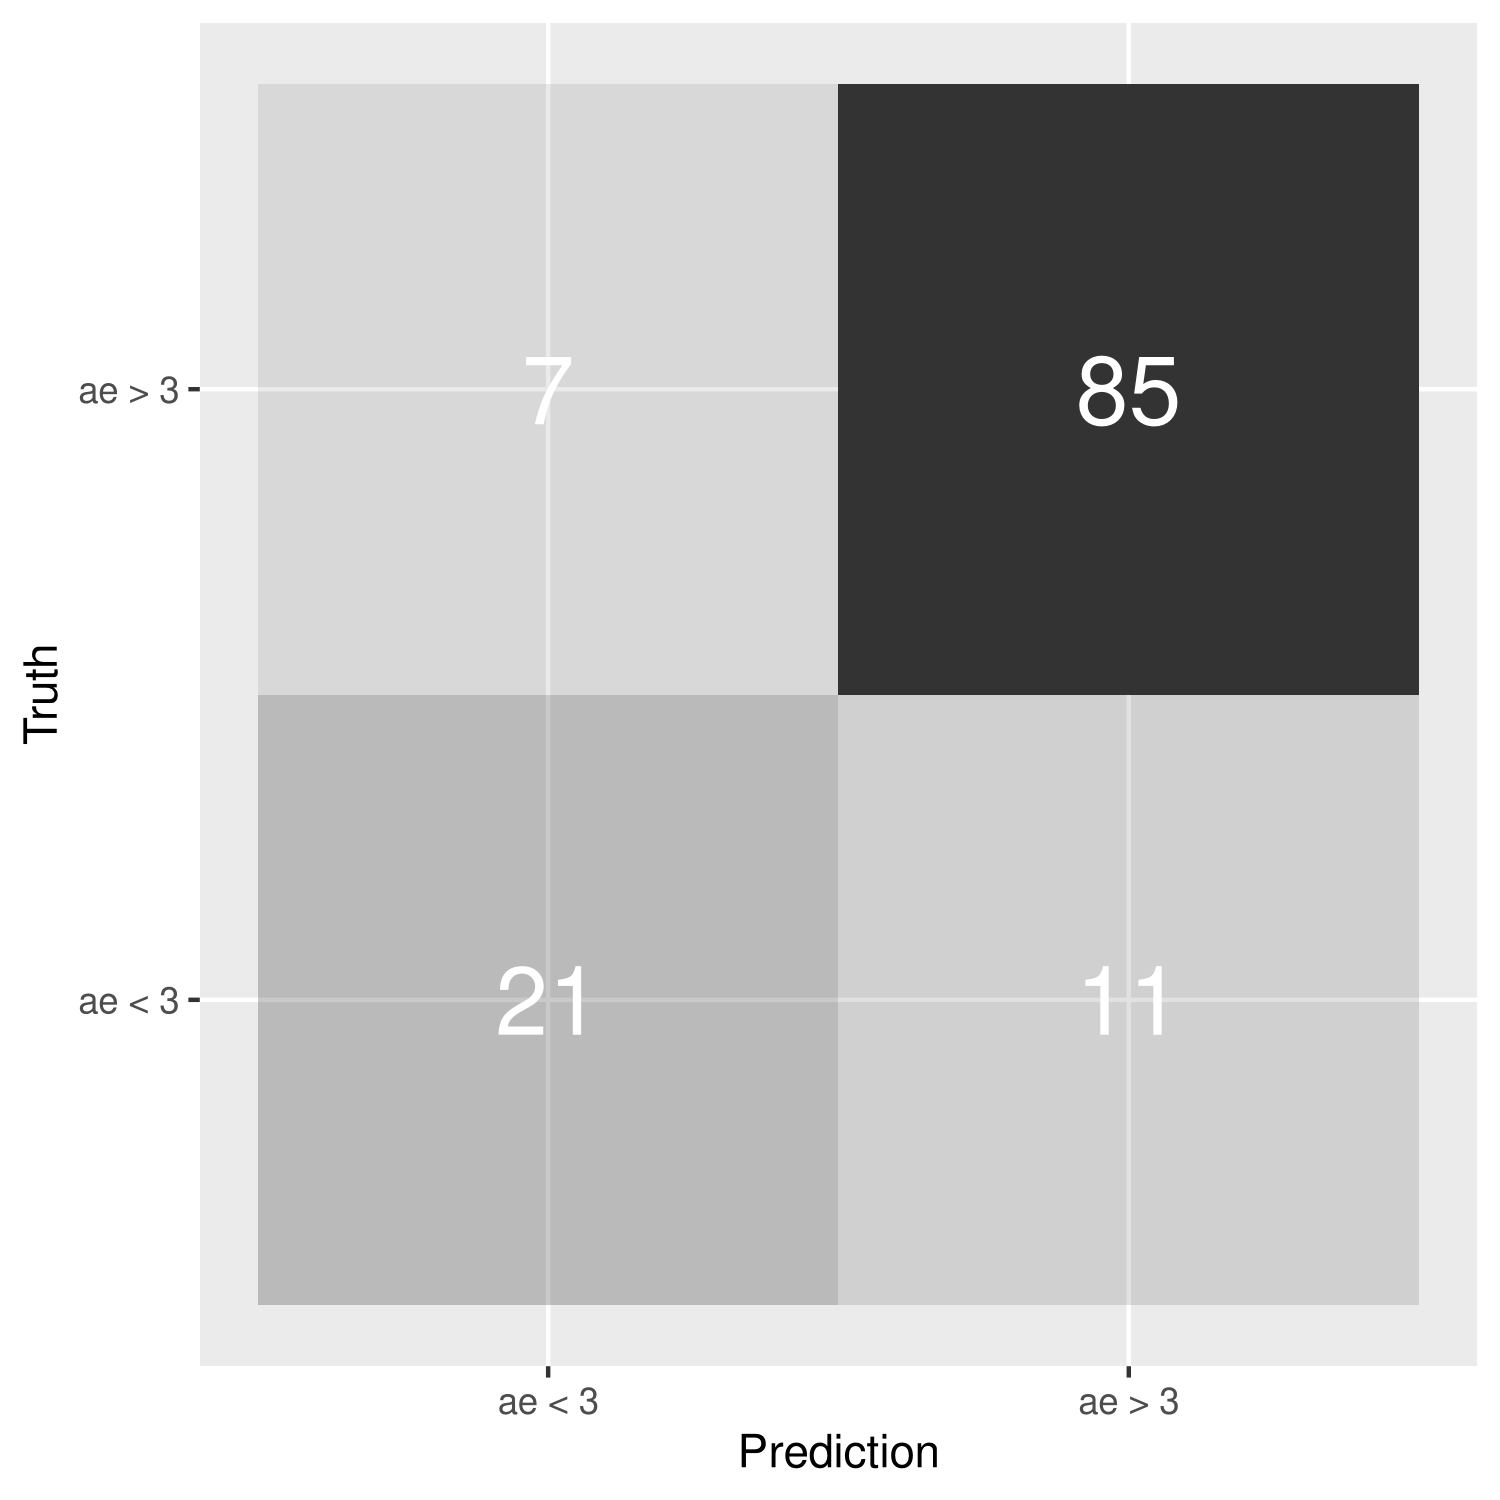
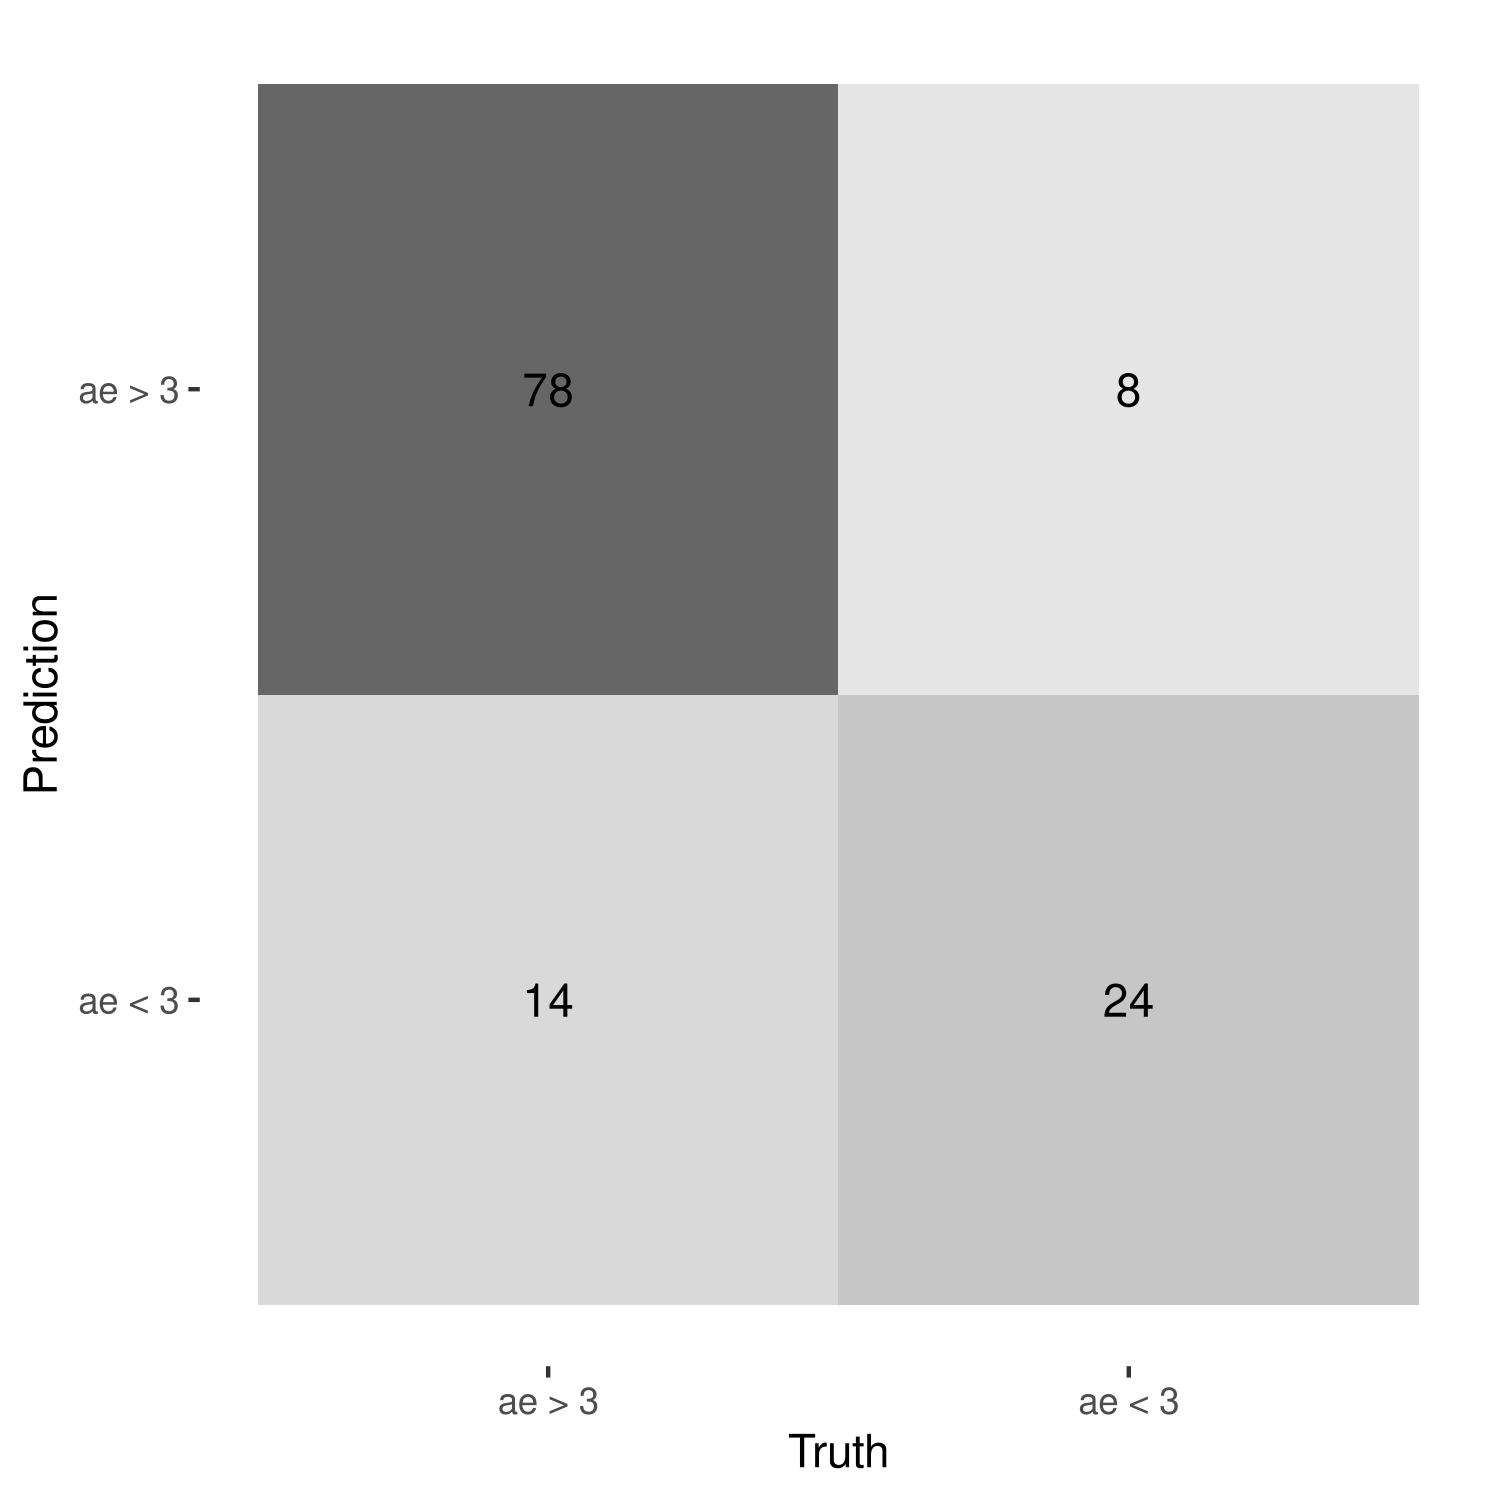
Fixed some figures, added final thresholded results

diff --git a/presentation_2.md b/presentation_2.md
@@ -177,7 +177,7 @@ clients %>%
   pivot_longer(everything(), names_to = "Year", values_to = "Claims") %>%
   mutate(Year = str_sub(Year, 8)) %>%
   filter(Claims > 0) %>%
-  ggplot(aes(Year, Claims, color = Year)) + scale_y_log10() + geom_beeswarm(priority = "random") +
+  ggplot(aes(Year, Claims, color = Year)) + scale_y_log10() + geom_beeswarm(size = 0.5, priority = "random") +
   guides(color = "none") + labs(title = "Size of claims") +
   scale_color_manual(values = c("yellow3", "deepskyblue", "black", "red"))
 ```
@@ -375,6 +375,7 @@ fit_wflows %>%
 
 ## Trying many models with many tuning parameters
 
+
 ```r
 tune_log_spec <-
   logistic_reg(penalty = tune()) %>%
@@ -485,18 +486,23 @@ forest_tune <-
 
 ```r
 forest_tune %>%
-  show_best(metric = "roc_auc")
+  show_best(metric = "roc_auc", n = 10)
 ```
 
 ```
-## # A tibble: 5 × 8
-##    mtry min_n .metric .estimator  mean     n std_err .config              
-##   <int> <int> <chr>   <chr>      <dbl> <int>   <dbl> <chr>                
-## 1     9    14 roc_auc binary     0.857    10  0.0182 Preprocessor1_Model0…
-## 2     7     6 roc_auc binary     0.857    10  0.0166 Preprocessor1_Model0…
-## 3     5     6 roc_auc binary     0.856    10  0.0168 Preprocessor1_Model0…
-## 4     5    10 roc_auc binary     0.855    10  0.0179 Preprocessor1_Model0…
-## 5     3     6 roc_auc binary     0.855    10  0.0177 Preprocessor1_Model0…
+## # A tibble: 10 × 8
+##     mtry min_n .metric .estimator  mean     n std_err .config             
+##    <int> <int> <chr>   <chr>      <dbl> <int>   <dbl> <chr>               
+##  1     9    14 roc_auc binary     0.857    10  0.0182 Preprocessor1_Model…
+##  2     7     6 roc_auc binary     0.857    10  0.0166 Preprocessor1_Model…
+##  3     5     6 roc_auc binary     0.856    10  0.0168 Preprocessor1_Model…
+##  4     5    10 roc_auc binary     0.855    10  0.0179 Preprocessor1_Model…
+##  5     3     6 roc_auc binary     0.855    10  0.0177 Preprocessor1_Model…
+##  6     3    10 roc_auc binary     0.855    10  0.0170 Preprocessor1_Model…
+##  7     3    14 roc_auc binary     0.855    10  0.0172 Preprocessor1_Model…
+##  8     5     2 roc_auc binary     0.855    10  0.0177 Preprocessor1_Model…
+##  9     7    18 roc_auc binary     0.855    10  0.0199 Preprocessor1_Model…
+## 10     9    10 roc_auc binary     0.855    10  0.0180 Preprocessor1_Model…
 ```
 
 ```r
@@ -550,7 +556,9 @@ forest_resamples %>%
   group_by(.threshold, .metric) %>%
   summarize(estimate = mean(.estimate)) %>%
   filter(.metric != "distance") %>%
-  ggplot(aes(x = .threshold, y = estimate, color = .metric)) + geom_line()
+  ggplot(aes(x = .threshold, y = estimate, color = .metric)) + geom_line() +
+  geom_vline(xintercept = 0.67, linetype = "dashed") +
+  labs(x = "Estimate", y = "Threshold", color = "Metric", title = "Sensitivity and specificity by threshold")
 ```
 
 ```
@@ -559,7 +567,12 @@ forest_resamples %>%
 
 ![plot of chunk unnamed-chunk-15](figures/pres-unnamed-chunk-15-2.png)
 
-We select ... as our final threshold
+We select 0.67 as our final threshold
+
+```r
+my_threshold <- 0.67
+```
+
 
 ## This is our final model !!!
 
@@ -583,39 +596,50 @@ trained_recipe <-
 Use `probably` to apply threshold.
 Conf. matrix, accuracy, sens, spec, whatever you like
 
-Below is not yet using thresholds!!!!
 
 ```r
-final_fit %>%
-  collect_metrics()
-```
-
-```
-## # A tibble: 2 × 4
-##   .metric  .estimator .estimate .config             
-##   <chr>    <chr>          <dbl> <chr>               
-## 1 accuracy binary         0.855 Preprocessor1_Model1
-## 2 roc_auc  binary         0.862 Preprocessor1_Model1
-```
-
-```r
-final_pred <-
+thresholded_predictions <-
   final_fit %>%
-  collect_predictions()
-```
+  collect_predictions() %>%
+  select(-.pred_class) %>%
+  mutate(class_pred = 
+            make_two_class_pred(
+                  `.pred_ae > 3`,
+                  levels = levels(clients$adverse),
+                  threshold = my_threshold))
 
+confusion_matrix <-
+  thresholded_predictions %>%
+  conf_mat(adverse, class_pred)
 
-```r
-final_pred %>%
-  conf_mat(adverse, .pred_class) %>%
-  pluck(1) %>%
-  as_tibble() %>%
-  ggplot(aes(Prediction, Truth, alpha = n)) +
-  geom_tile(show.legend = FALSE) +
-  geom_text(aes(label = n), colour = "white", alpha = 1, size = 8)
+confusion_matrix %>%
+  autoplot(type = "heatmap")
 ```
 
 ![plot of chunk unnamed-chunk-18](figures/pres-unnamed-chunk-18-1.png)
+
+```r
+confusion_matrix %>% summary()
+```
+
+```
+## # A tibble: 13 × 3
+##    .metric              .estimator .estimate
+##    <chr>                <chr>          <dbl>
+##  1 accuracy             binary         0.823
+##  2 kap                  binary         0.563
+##  3 sens                 binary         0.848
+##  4 spec                 binary         0.75 
+##  5 ppv                  binary         0.907
+##  6 npv                  binary         0.632
+##  7 mcc                  binary         0.567
+##  8 j_index              binary         0.598
+##  9 bal_accuracy         binary         0.799
+## 10 detection_prevalence binary         0.694
+## 11 precision            binary         0.907
+## 12 recall               binary         0.848
+## 13 f_meas               binary         0.876
+```
 
 #SHAP value is not done yet. It is done if we can take the whole clients set (not dividing between train and test). But if we want to use it on test only, needs more work. (see pictures on slack for the whole client set). 
 
